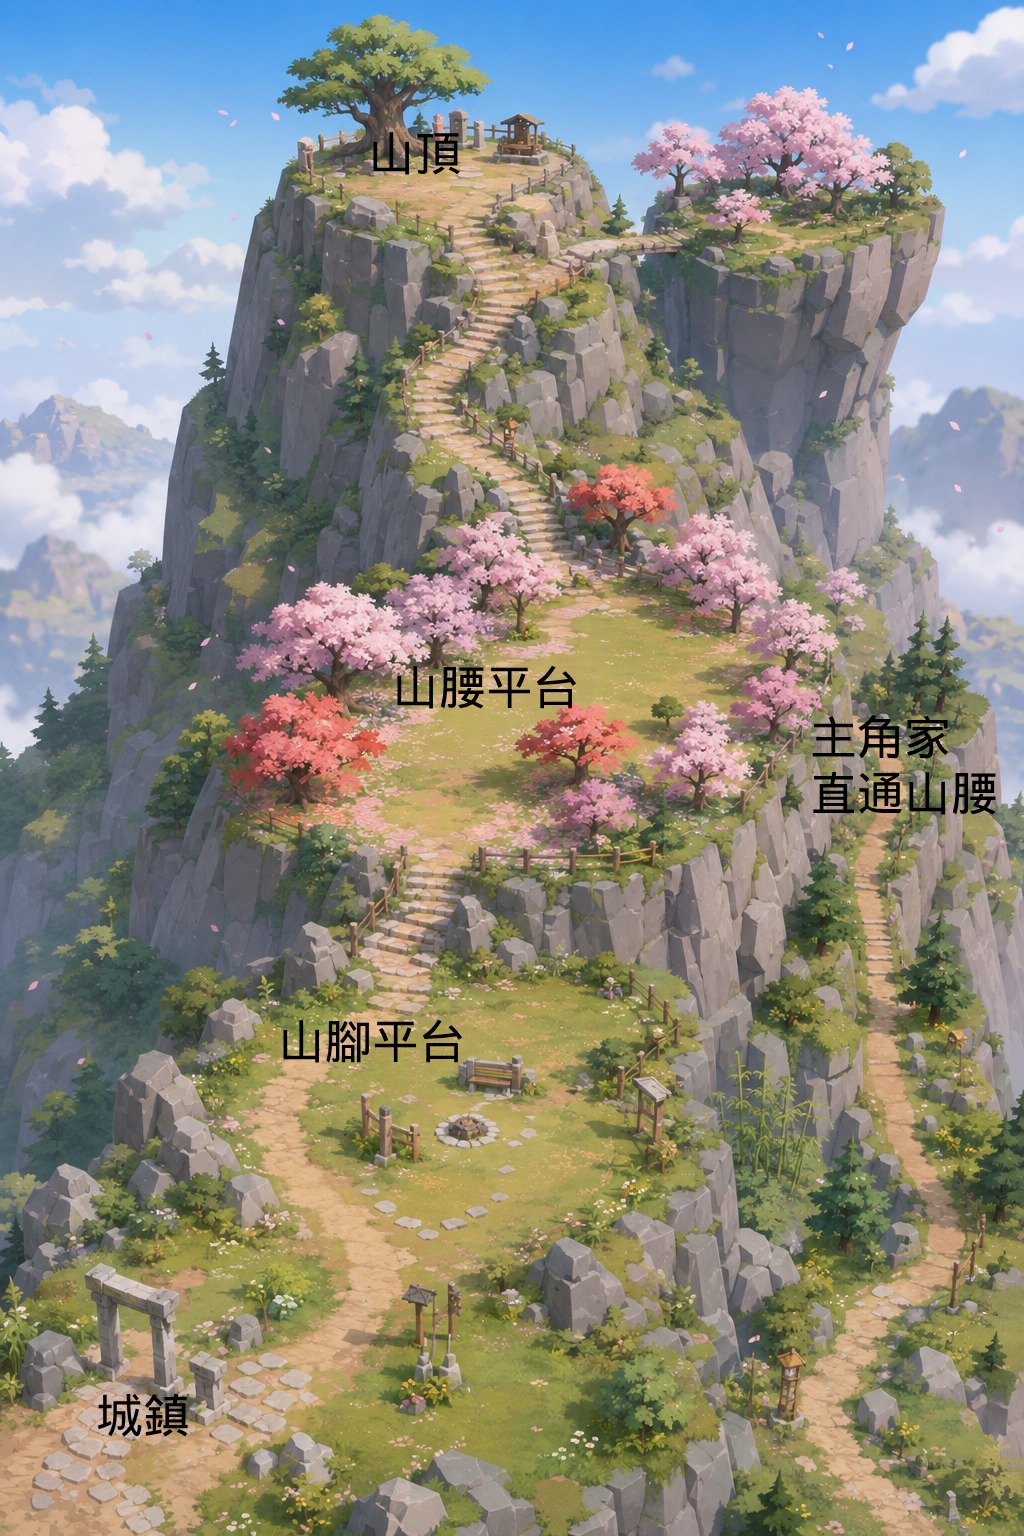
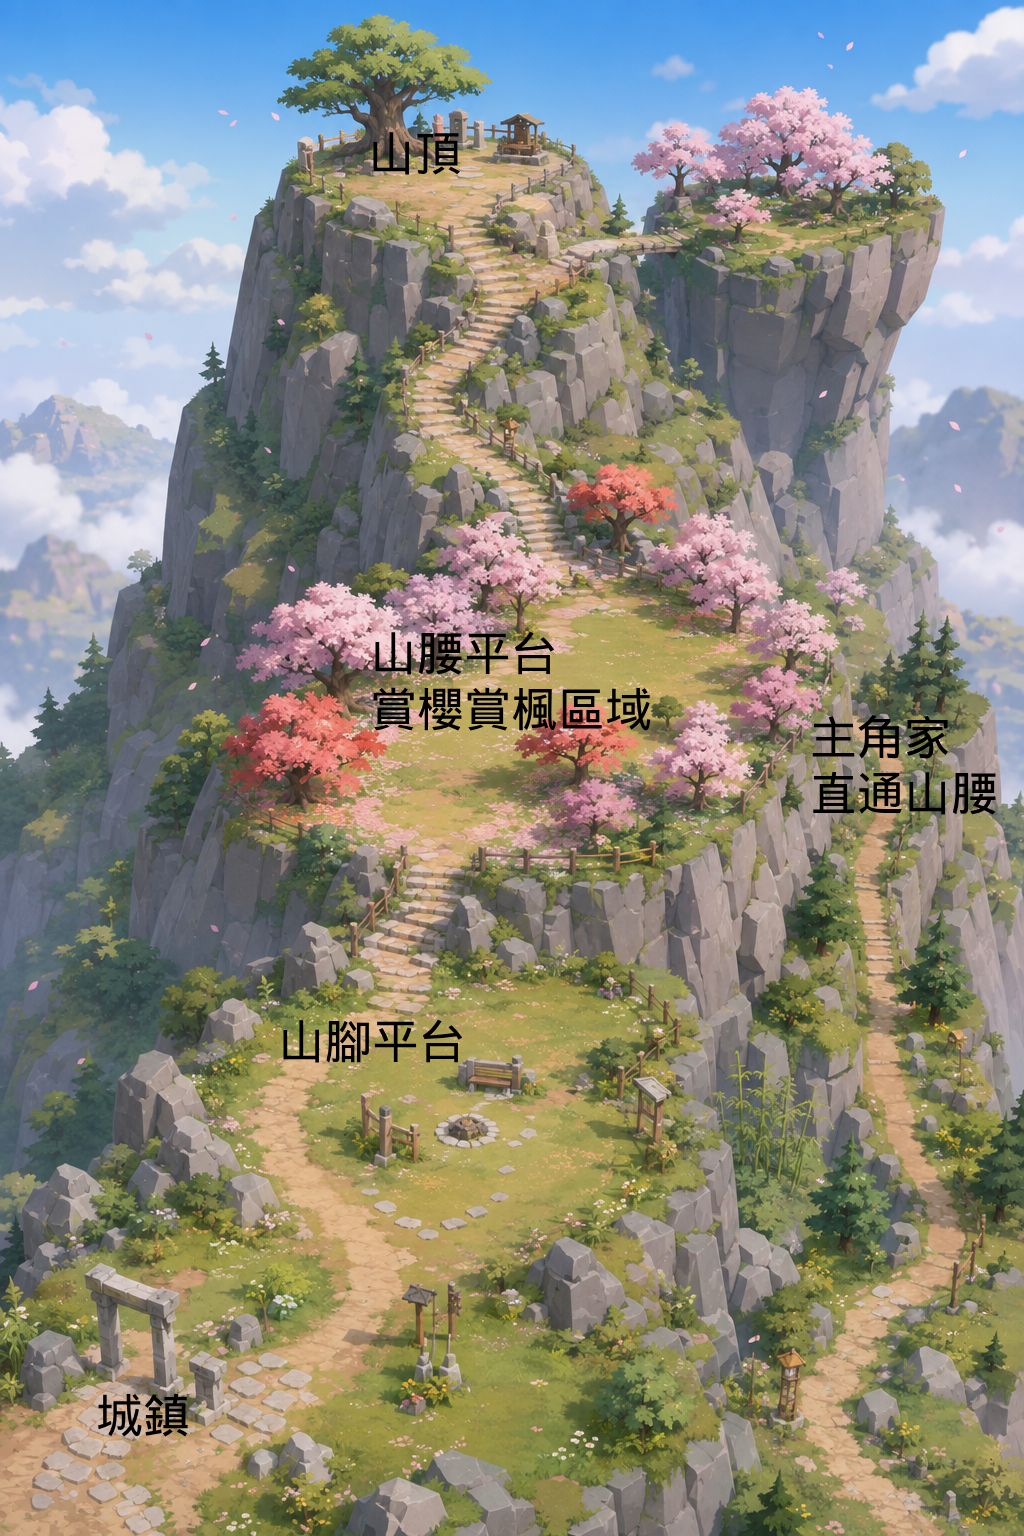
山區地圖

Changed region(s): [[0.3438, 0.4062, 0.6562, 0.5]]

diff --git a/src/build-map.ts b/src/build-map.ts
@@ -7,7 +7,7 @@ import { handleCarpenterDockTouch, handleCarpenterDoorstepTouch } from "./carpen
 import { windowMats, waterSurfaceMaterials, waterSkyUnderlayMaterials, waterSparkleMaterials, outdoorLampLights, foamMeshes, windmillRotors, lakeShoreColliders, fishSchool, pastureGrassBlades, avenueLeafMaterials, seasonalTreeLeafMaterials, seasonalGroundMaterials, SEA_FISH_SCALE, LAKE_FISH_SCALE, EAST_SEA_WAVE_DIRECTION, NORTHEAST_SEA_WAVE_DIRECTION, thresholdMarkerMeshes, thresholdMarkersVisible } from "./scene-registries";
 import { npcGroup, animalGroup, PASTURE, hasPastureGrassAt } from "./npc-runtime";
 import { makeGirlPlayer } from "./humanoid";
-import { makeTree, makeAvenueTree, makeBuilding, makeBarn, makePath, makeLakeShoreRock, makeGrassTuft, makeWindGrass, makeFlower, makeFruitTree, makeWaterfallPlaceholder, makeOysterRack, makeRestArea, makeSmallGarden, makePortScene, makeToriiGate, makeShrinePathCauseway, makeTownPlaceholder, makeConstructionSign, makeStone, makeBasaltHeadland, makeSand, makeFoam, makeRedWindmill, makeMountain, makeWesternMountainTerrain, makeMountainGateway, makeFishProp, makeLamp, makeStreetLamp, makeBench, makeInteriorWall, makeFurniture, updateSeasonalGroundColors, FLOWER_COLORS } from "./props";
+import { makeTree, makeAvenueTree, makeBuilding, makeBarn, makePath, makeLakeShoreRock, makeGrassTuft, makeWindGrass, makeFlower, makeFruitTree, makeWaterfallPlaceholder, makeOysterRack, makeRestArea, makeSmallGarden, makePortScene, makeToriiGate, makeShrinePathCauseway, makeTownPlaceholder, makeConstructionSign, makeStone, makeBasaltHeadland, makeSand, makeFoam, makeRedWindmill, makeMountain, makeWesternMountainTerrain, makeMountainGateway, makeFishProp, makeLamp, makeStreetLamp, makeBench, makeFence, makeCampfireRing, makeInteriorWall, makeFurniture, updateSeasonalGroundColors, FLOWER_COLORS } from "./props";
 import { syncFarmVisuals } from "./farm-visuals";
 import { OYSTER_RACK_VISUAL } from "./game-state";
 
@@ -648,6 +648,31 @@ import { OYSTER_RACK_VISUAL } from "./game-state";
             post.position.set(16.5, mountain.summit.elevation + 0.55, 6.5);
             summitMarker.add(post);
             gameState.mapGroup.add(summitMarker);
+
+            // 山頂石標旁補一座小鳥居，呼應概念圖山頂那座小神社的意象；跟
+            // 女神祠堂共用同一個 makeToriiGate()，不用另外做新造型。
+            const summitTorii = makeToriiGate();
+            summitTorii.scale.setScalar(0.75);
+            summitTorii.position.set(15, mountain.summit.elevation, 8.2);
+            gameState.mapGroup.add(summitTorii);
+
+            // 山腳平台補概念圖裡的長椅+營火+木欄杆+告示牌，這輪先只放在
+            // 山腳一處，不是每個平台都鋪滿——山腰/山頂已經有樹/石標/長椅
+            // 撐場面，山腳這批是唯一還缺裝飾的地方。
+            // 座標刻意選在步道(=)東側的草地上(x=11~17)，避開(18,36)那棵既有
+            // 的樹，也不蓋在主要動線上，看起來像特地圍起來的休息角落。
+            const footBench = makeBench(14, 38, Math.PI / 2);
+            footBench.position.y += mountainGroundY(14, 38);
+            gameState.mapGroup.add(footBench);
+            const campfire = makeCampfireRing(14, 36);
+            campfire.position.y += mountainGroundY(14, 36);
+            gameState.mapGroup.add(campfire);
+            const foothillFence = makeFence(11, 17, 34, 39);
+            foothillFence.position.y += mountainGroundY(14, 36);
+            gameState.mapGroup.add(foothillFence);
+            const signpost = makeConstructionSign(6, 41);
+            signpost.position.y += mountainGroundY(6, 41);
+            gameState.mapGroup.add(signpost);
           }
         }
 
@@ -765,8 +790,17 @@ import { OYSTER_RACK_VISUAL } from "./game-state";
                 makeInteriorWall(x, z, winEntry ? winEntry.side : null),
               );
             } else if (tile === 2) {
+              // 山腰平台(waist)這幾棵改用行道樹(makeAvenueTree)——那個模型
+              // 本來就跟著季節變色(春粉紅/夏綠/秋橙紅/冬白)，剛好對應概念圖
+              // 「賞櫻賞楓區域」：不用另外做櫻花/楓葉專用樹種，同一批樹春天
+              // 看起來是賞櫻、秋天自然變成賞楓，比寫死單一顏色更合理。
+              const inMountainWaist =
+                mapName === "mountain" &&
+                z >= LAYOUT.mountain.waist.z &&
+                z < LAYOUT.mountain.waist.z + LAYOUT.mountain.waist.depth;
               const m =
-                mapName === "livingArea" && AVENUE_TREE_KEYS.has(`${x},${z}`)
+                (mapName === "livingArea" && AVENUE_TREE_KEYS.has(`${x},${z}`)) ||
+                inMountainWaist
                   ? makeAvenueTree(x, z)
                   : makeTree(x, z);
               m.position.y +=
@@ -776,6 +810,10 @@ import { OYSTER_RACK_VISUAL } from "./game-state";
                     ? mountainGroundY(x, z)
                     : 0;
               if (mapName === "mountain" && z <= 5) m.scale.setScalar(1.45);
+              // 山頂中央那棵(12,5)是概念圖裡「山頂巨木」的位置，額外放大、
+              // 蓋過其他山頂樹，一眼就能認出是地標。
+              if (mapName === "mountain" && x === 12 && z === 5)
+                m.scale.setScalar(2.3);
               gameState.mapGroup.add(m);
             } else if (tile === 3) {
               const threshold = new THREE.Mesh(

diff --git a/src/props.ts b/src/props.ts
@@ -2496,6 +2496,49 @@ import { randomPasturePoint } from "./npc-runtime";
         return group;
       }
 
+      // 簡單的營火——一圈石頭圍住一塊燒黑的地面，概念圖山腳平台那個小
+      // 篝火造型。純裝飾，沒有真的火焰粒子效果。
+      export function makeCampfireRing(x, z) {
+        const group = new THREE.Group();
+        const ash = new THREE.Mesh(
+          new THREE.CircleGeometry(0.34, 12),
+          new THREE.MeshStandardMaterial({ color: 0x2a2622, roughness: 1 }),
+        );
+        ash.rotation.x = -Math.PI / 2;
+        ash.position.y = 0.01;
+        group.add(ash);
+        const stoneMat = new THREE.MeshStandardMaterial({
+          color: 0x8a8a86,
+          flatShading: true,
+        });
+        const STONE_COUNT = 10;
+        for (let i = 0; i < STONE_COUNT; i++) {
+          const angle = (i / STONE_COUNT) * Math.PI * 2;
+          const stone = new THREE.Mesh(
+            new THREE.IcosahedronGeometry(0.09 + hash2(i, 3.1) * 0.03, 0),
+            stoneMat,
+          );
+          stone.position.set(Math.cos(angle) * 0.4, 0.06, Math.sin(angle) * 0.4);
+          stone.rotation.set(hash2(i, 1) * 6, hash2(i, 2) * 6, hash2(i, 3) * 6);
+          stone.castShadow = true;
+          group.add(stone);
+        }
+        // 燒焦的木柴堆在中央
+        const logMat = new THREE.MeshStandardMaterial({ color: 0x3a2e24 });
+        [0, 1, 2].forEach((i) => {
+          const log = new THREE.Mesh(
+            new THREE.CylinderGeometry(0.045, 0.045, 0.4, 6),
+            logMat,
+          );
+          log.rotation.z = Math.PI / 2;
+          log.rotation.y = (i / 3) * Math.PI;
+          log.position.y = 0.05;
+          group.add(log);
+        });
+        group.position.set(x, 0, z);
+        return group;
+      }
+
       export function makeInteriorWall(x, z, windowSide) {
         const g = new THREE.Group();
         const wall = new THREE.Mesh(

diff --git a/src/layout-maps.ts b/src/layout-maps.ts
@@ -67,7 +67,7 @@ import { hash2 } from "./utils";
           height: 30,
           livingGate: { x: 27, z: 0, width: 3 },
           livingAreaGate: { x: 20, z: 42, width: 3 },
-          portGate: { x: 40, z: 9, height: 15, portZ: 20 },
+          portGate: { x: 40, z: 9, height: 10, portZ: 19 },
           mountainRoad: { x: 3, z: 29, width: 3 },
           mountainGate: { x: 1, z: 0 },
           artVillageGate: { x: 3, z: 29 },
@@ -155,7 +155,7 @@ import { hash2 } from "./utils";
         },
         port: {
           width: 34,
-          height: 60,
+          height: 40,
           oceanExpansion: 10,
           oceanViewPadding: 50,
           beachDepth: 10,
@@ -164,13 +164,13 @@ import { hash2 } from "./utils";
           livingGate: { x: 3, z: 0, width: 11 },
           livingAreaGate: { x: 37, z: 42, width: 11 },
           playerArrival: { x: 7, z: 11 },
-          carpenterMeet: { x: 13, z: 38 },
-          artVillageGate: { x: 3, z: 48 },
+          carpenterMeet: { x: 13, z: 28 },
+          artVillageGate: { x: 3, z: 29 },
           shopRoad: { z: 14, height: 5 },
-          basin: { x: 6, z: 19, width: 15, height: 17 },
-          ferry: { x: 13, z: 27 },
-          southQuay: { z: 36, height: 13 },
-          smallBoatDock: { x: 21, z: 37, length: 11 },
+          basin: { x: 6, z: 18, width: 15, height: 9 },
+          ferry: { x: 13, z: 22 },
+          southQuay: { z: 27, height: 3 },
+          smallBoatDock: { x: 21, z: 27, length: 9 },
           shops: [
             { x: 9, z: 12, w: 3, d: 2, seed: 0.22 },
             { x: 13, z: 12, w: 4, d: 2, seed: 0.47 },

diff --git a/src/game-loop.ts b/src/game-loop.ts
@@ -198,9 +198,31 @@ gameState.lastFrame = performance.now();
             )
               ? 0.3
               : 0.08);
+        const mountainStairVisibilityZone =
+          gameState.currentMapName === "mountain" &&
+          [LAYOUT.mountain.lowerStair, LAYOUT.mountain.upperStair].some(
+            (stair) =>
+              gameState.player.position.x >= stair.x - 0.5 &&
+              gameState.player.position.x <= stair.x + stair.width - 0.5 &&
+              gameState.player.position.z >= stair.fromZ - 0.85 &&
+              gameState.player.position.z <= stair.toZ + 0.5,
+          );
         gameState.player.traverse((child: any) => {
-          if (child.isMesh)
-            child.renderOrder = gameState.currentMapName === "oldVillage" ? 3 : 0;
+          if (!child.isMesh) return;
+          child.renderOrder =
+            gameState.currentMapName === "oldVillage"
+              ? 3
+              : mountainStairVisibilityZone
+                ? 10
+                : 0;
+          const materials = Array.isArray(child.material)
+            ? child.material
+            : [child.material];
+          materials.forEach((material) => {
+            if (!material) return;
+            material.depthTest = !mountainStairVisibilityZone;
+            material.depthWrite = !mountainStairVisibilityZone;
+          });
         });
 
         // 拋竿/持竿動畫：雙手一起蓋過 animateWalk 剛設好的角度。左手往內、往前
